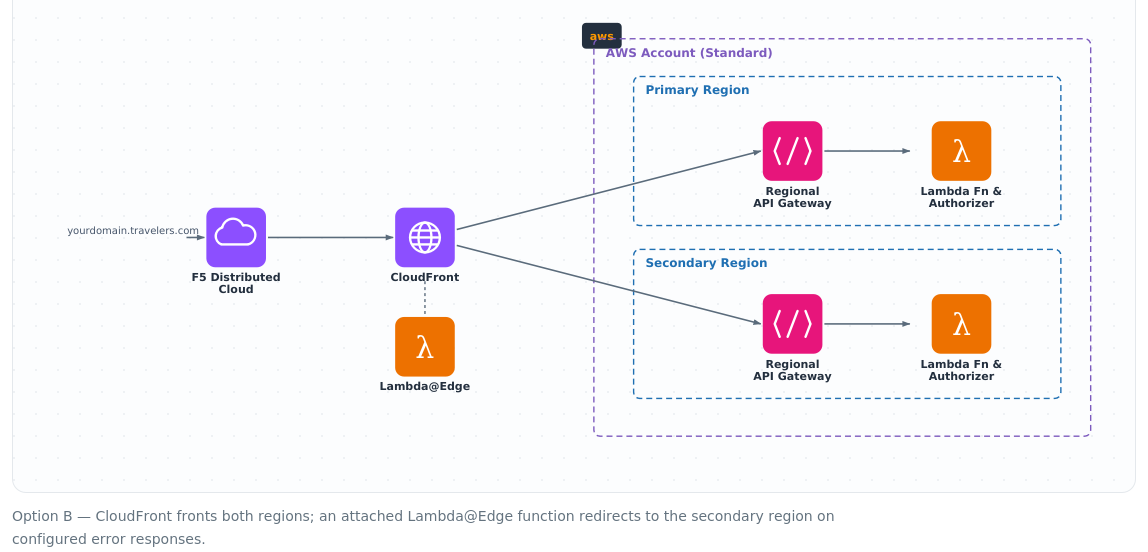
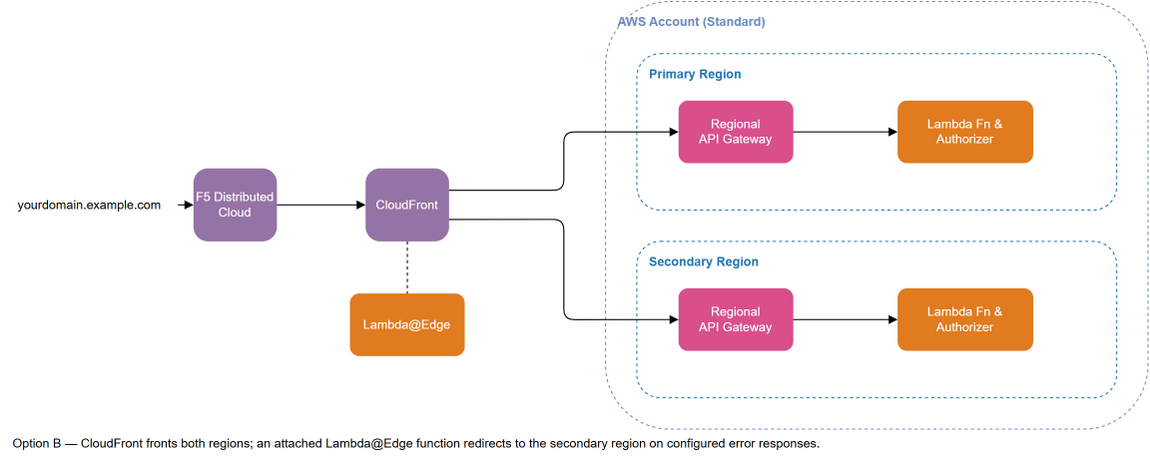
updated images

diff --git a/.claude/patterns/markdown/aws-api-architecture.md b/.claude/patterns/markdown/aws-api-architecture.md
@@ -146,6 +146,9 @@ Three deployment options are available for spreading the pattern across regions.
 
 ![Option A – Route 53 failover](../images/external-failover-route53.png)
 
+> **Source file:** `.claude/patterns/diagrams/external-failover-route53.drawio` (editable draw.io
+> source) — open in [diagrams.net](https://app.diagrams.net) to edit and re-export the PNG above
+
 A Public Route 53 health-check monitor manages failover from the primary to the secondary region.
 F5 Distributed Cloud has a TTL of 5 minutes and Route 53 has a TTL of 1 minute, allowing timely
 — but not immediate — failover to the secondary region.
@@ -156,6 +159,10 @@ F5 Distributed Cloud has a TTL of 5 minutes and Route 53 has a TTL of 1 minute, 
 
 ![Option B – CloudFront + Lambda@Edge failover](../images/external-failover-cloudfront.png)
 
+> **Source file:** `.claude/patterns/diagrams/external-failover-cloudfront.drawio` (editable
+> draw.io source) — open in [diagrams.net](https://app.diagrams.net) to edit and re-export the PNG
+> above
+
 CloudFront and Lambda@Edge perform an immediate failover from the primary to the secondary region
 when the API in the primary region returns specified error codes. The Lambda@Edge function is a
 custom function you write and can easily modify to configure failover behaviour.
@@ -165,6 +172,9 @@ custom function you write and can easily modify to configure failover behaviour.
 ### Option C — Active/Active using F5 to load-balance between regions *(1–5 minute failover)*
 
 ![Option C – F5 Active/Active](../images/external-failover-f5.png)
+
+> **Source file:** `.claude/patterns/diagrams/external-failover-f5.drawio` (editable draw.io
+> source) — open in [diagrams.net](https://app.diagrams.net) to edit and re-export the PNG above
 
 F5 Distributed Cloud load-balances traffic between multiple regions and can route all traffic to a
 single region if failures are detected in one region. Configuration is managed within F5
